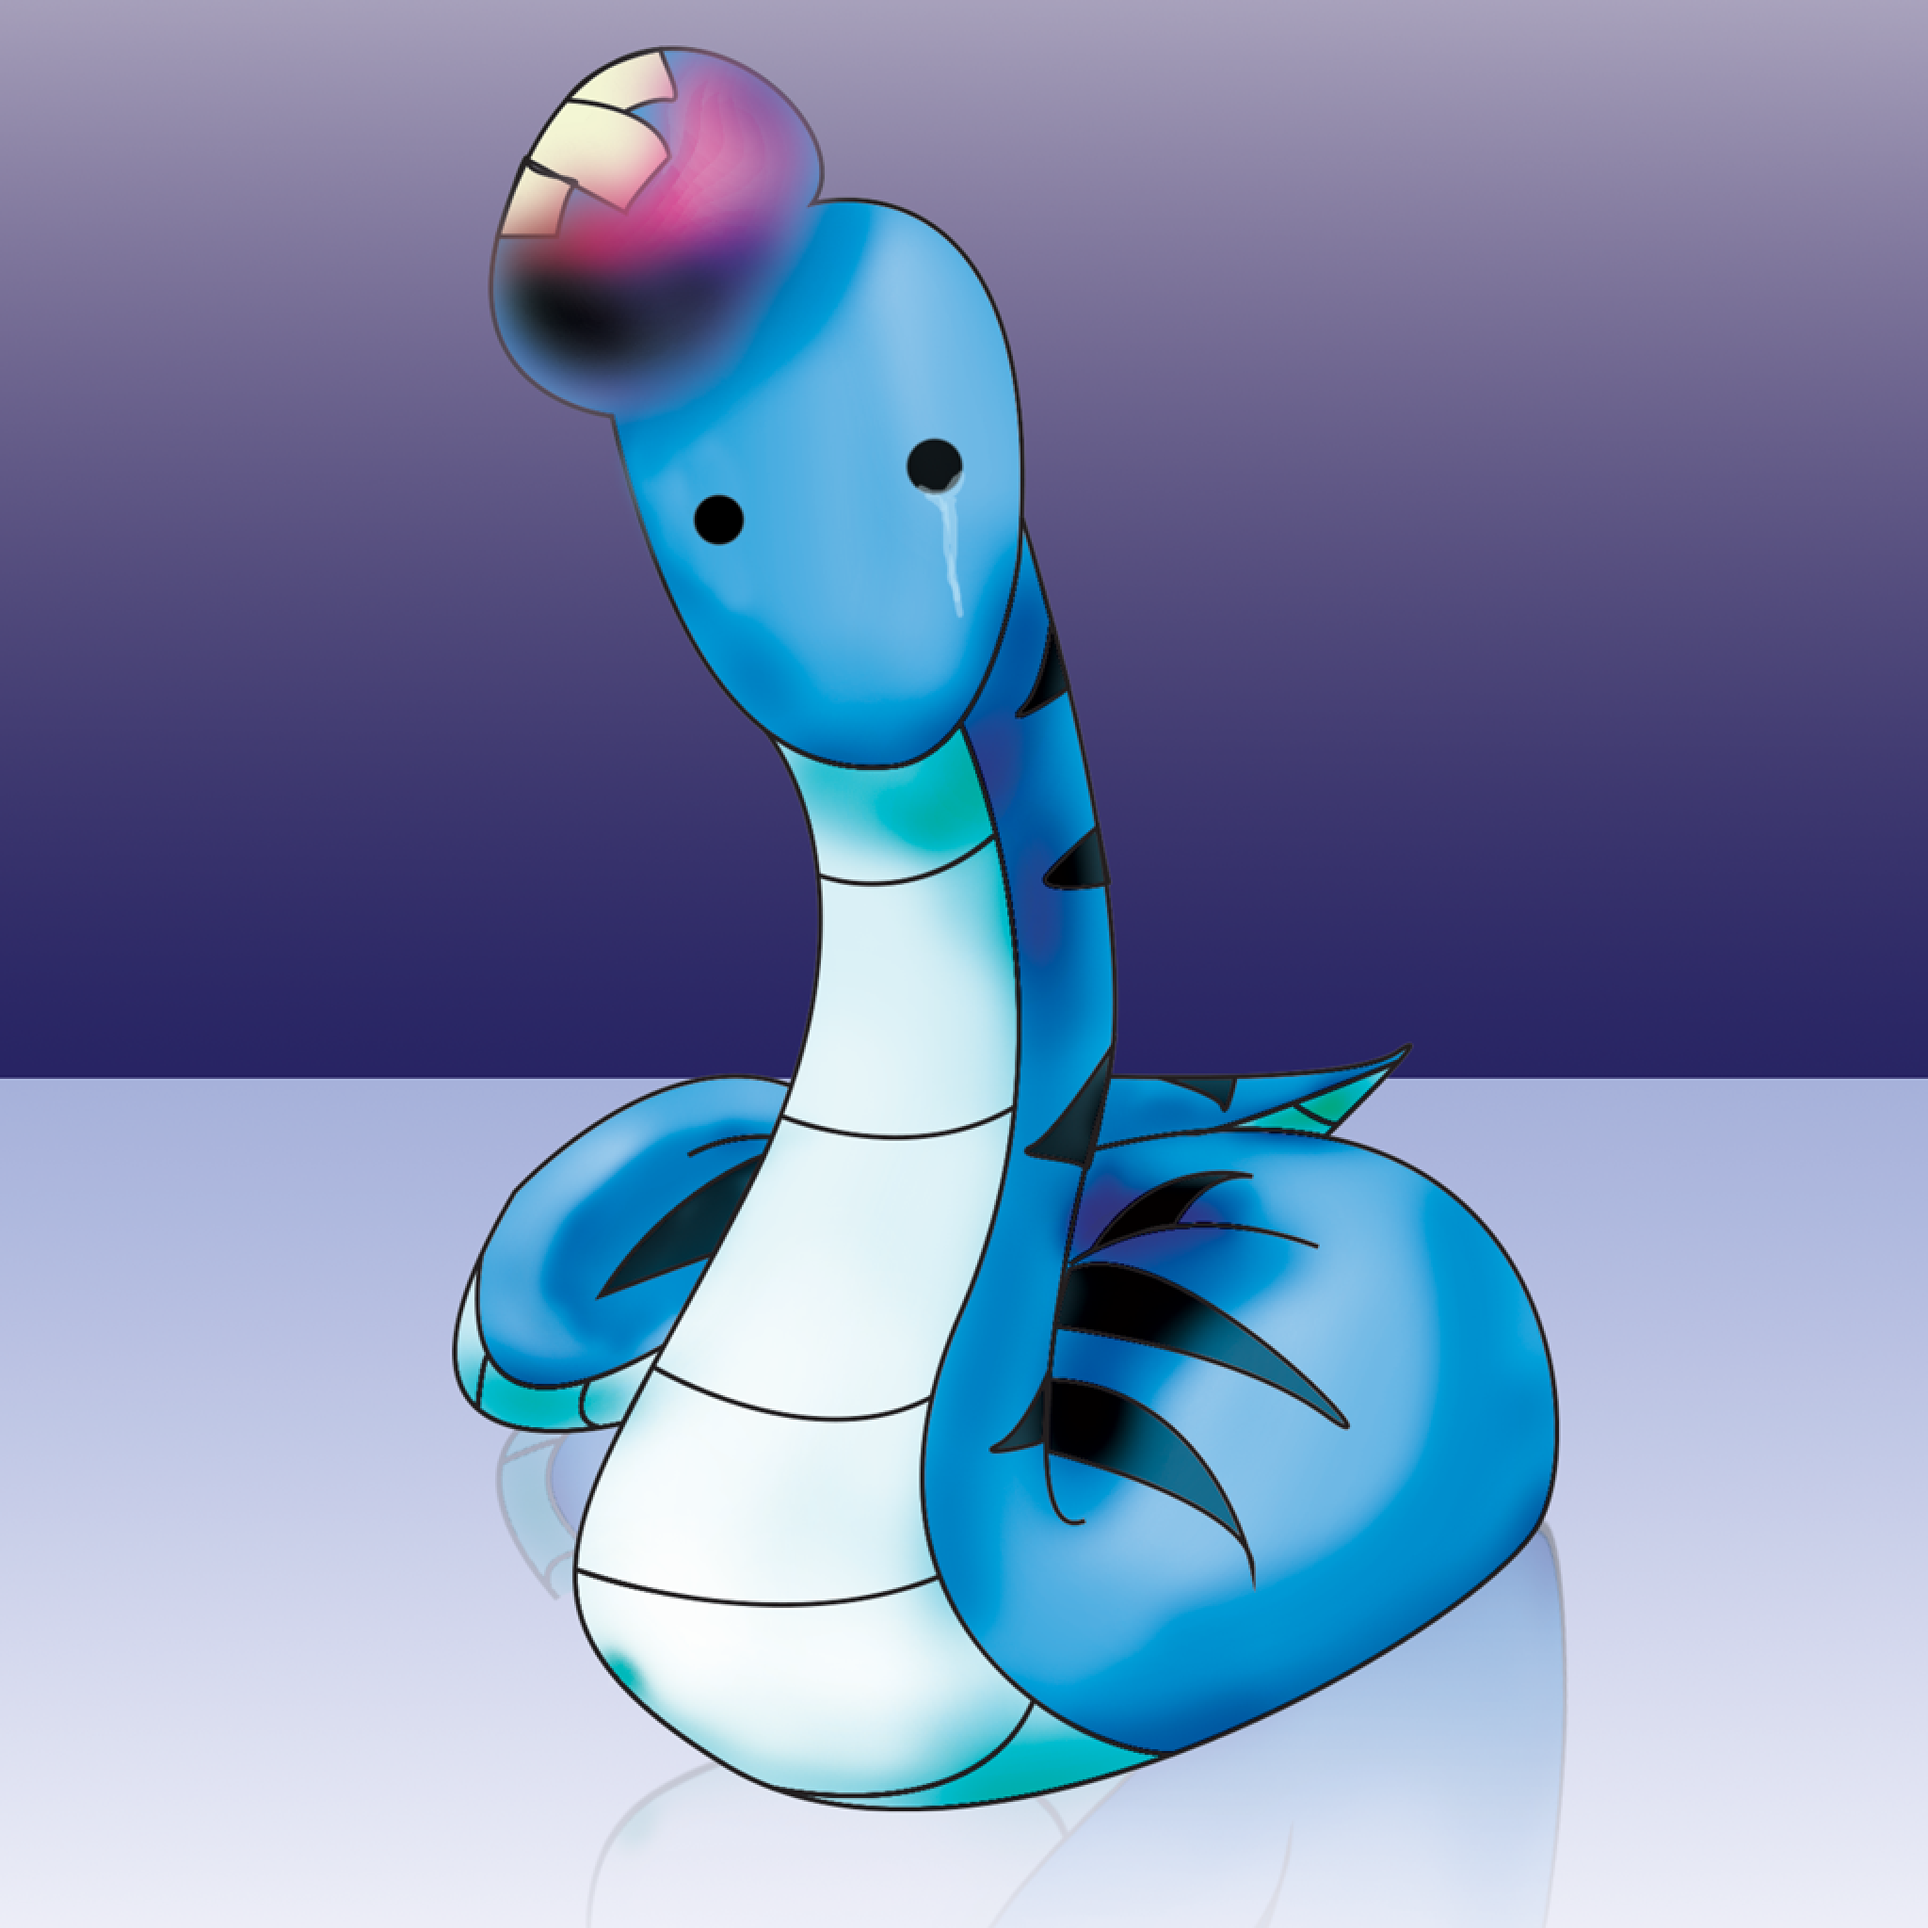
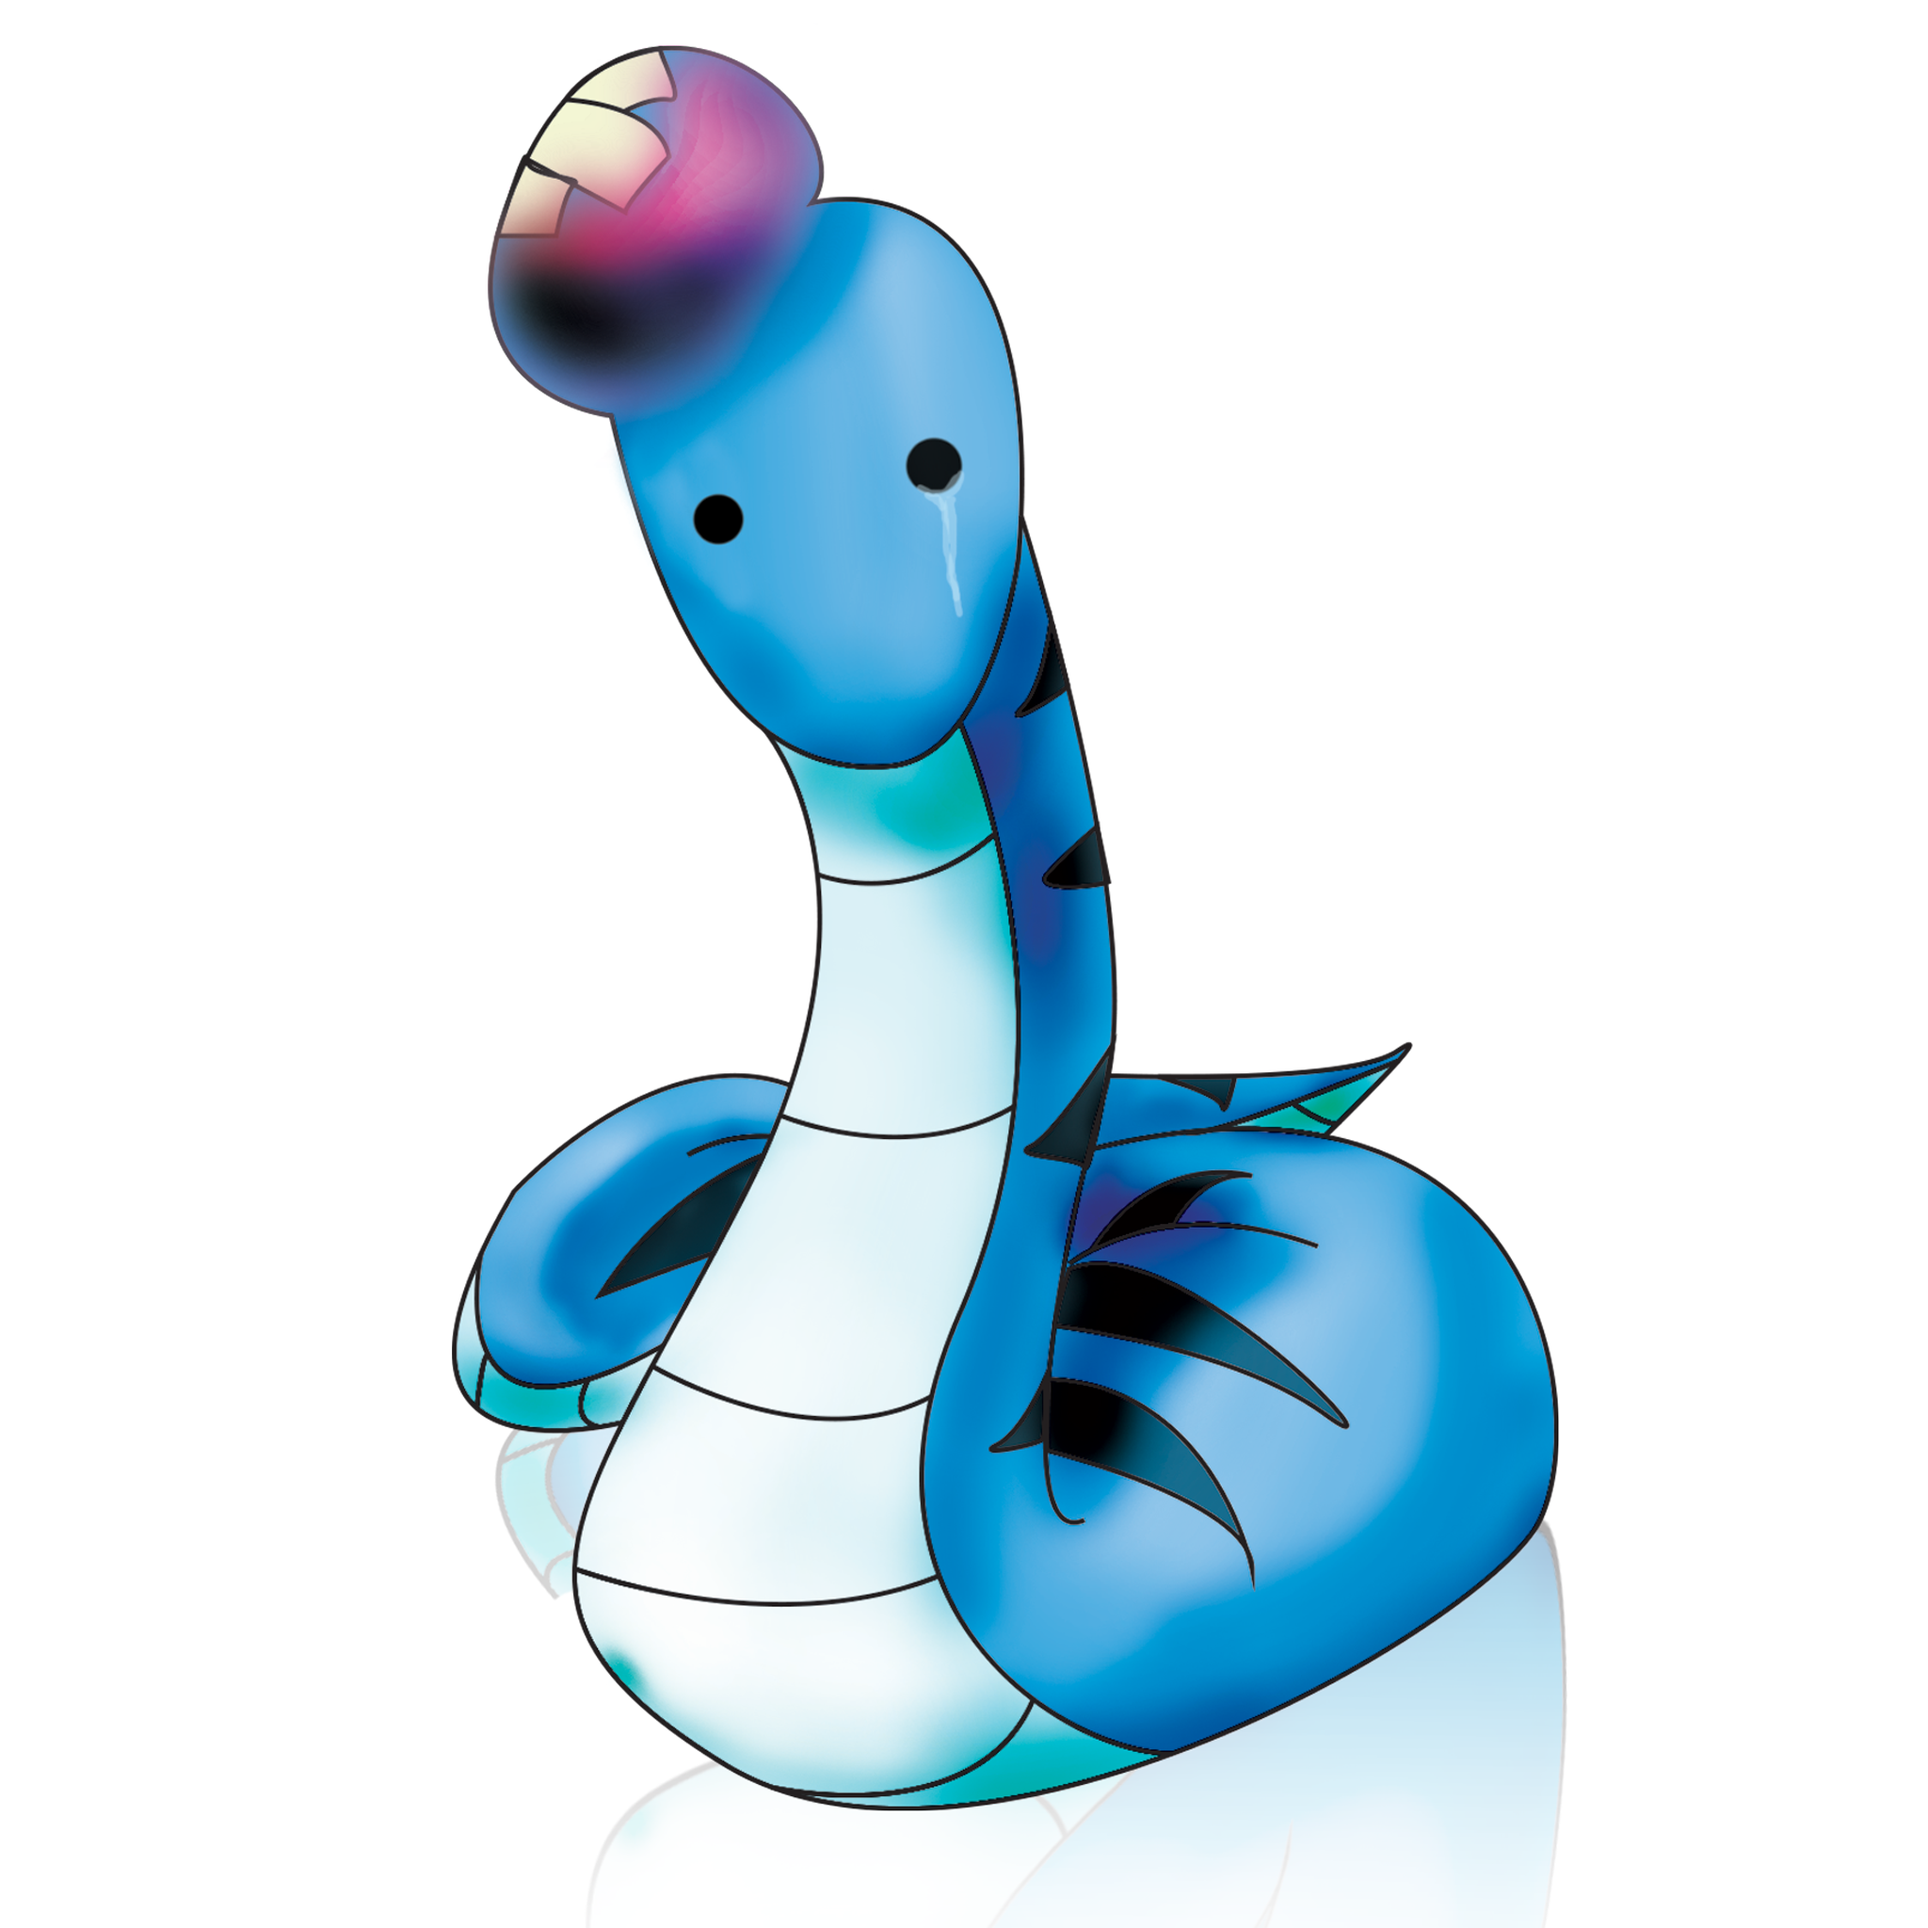
-Updated some death screens.
-Tweaked the text centered behavior.

diff --git a/Steve/src/com/steve/stages/Summary.java b/Steve/src/com/steve/stages/Summary.java
@@ -14,11 +14,13 @@ public class Summary {
 	Texture diedEnemy;
 	Texture diedStarvation;
 	Texture diedBlocker;
+	Texture diedSpace;
 	Texture background;
 	
 	Sprite diedEnemySprite;
 	Sprite diedStarvationSprite;
 	Sprite diedBlockerSprite;
+	Sprite diedSpaceSprite;
 	Sprite backgroundSprite;
 	
 	public float appleScore;
@@ -46,6 +48,7 @@ public class Summary {
 		diedEnemy = new Texture(Gdx.files.internal("data/diedEnemy.png"));
 		diedStarvation = new Texture(Gdx.files.internal("data/diedStarvation.png"));
 		diedBlocker = new Texture(Gdx.files.internal("data/diedBlocker.png"));
+		diedSpace = new Texture(Gdx.files.internal("data/diedSpace.png"));
 		background = new Texture(Gdx.files.internal("data/diedBackground.png"));
 		
 		diedEnemySprite = new Sprite(new TextureRegion(diedEnemy, 0f, 0f, 1f, 1f));
@@ -57,6 +60,9 @@ public class Summary {
 		diedBlockerSprite = new Sprite(new TextureRegion(diedBlocker, 0f, 0f, 1f, 1f));
 		diedBlockerSprite.scale(SteveDriver.guiCamera.viewportHeight / diedBlockerSprite.getHeight() - 1f);
 		diedBlockerSprite.setPosition(diedBlockerSprite.getWidth() / 2 * -1, diedBlockerSprite.getHeight() / 2 * -1);
+		diedSpaceSprite = new Sprite(new TextureRegion(diedSpace, 0f, 0f, 1f, 1f));
+		diedSpaceSprite.scale(SteveDriver.guiCamera.viewportWidth / diedSpaceSprite.getWidth() - 1f);
+		diedSpaceSprite.setPosition(diedSpaceSprite.getWidth() / 2 * -1, diedSpaceSprite.getHeight() / 2 * -1);
 		backgroundSprite = new Sprite(new TextureRegion(background, 0f, 0f, 1f, 1f));
 		backgroundSprite.scale(SteveDriver.guiCamera.viewportHeight / diedBlockerSprite.getHeight() - 1f);
 		
@@ -108,6 +114,7 @@ public class Summary {
 		case player:
 			break;
 		case space:
+			diedSpaceSprite.draw(SteveDriver.batch);
 			break;
 		case starvation:
 			diedStarvationSprite.draw(SteveDriver.batch);

diff --git a/Steve/src/com/steve/helpers/GUIHelper.java b/Steve/src/com/steve/helpers/GUIHelper.java
@@ -1,5 +1,7 @@
 package com.steve.helpers;
 
+import java.util.ArrayList;
+
 import com.badlogic.gdx.Gdx;
 import com.badlogic.gdx.graphics.Color;
 import com.badlogic.gdx.graphics.g2d.BitmapFont;
@@ -16,6 +18,8 @@ public class GUIHelper {
 	private BoxSet blackBox;
 	private BoxSet goldBox;
 	private BoxSet redBox;
+	
+	private ArrayList<String> tempLines;
 	
 	public enum BoxColors {
 		BLACK, GOLD, RED;
@@ -62,6 +66,8 @@ public class GUIHelper {
 		redBox = new BoxSet(18, 23);
 		
 		setActiveFont48();
+		
+		tempLines = new ArrayList<String>();
 	}
 	
 	private BoxSet getBox(BoxColors whichBox) {
@@ -100,16 +106,23 @@ public class GUIHelper {
 	
 	public void drawTextCentered(String message, float x, float y, Color c) {
 		activeFont.setColor(c);
-		int lineNumber = 0;
 		
 		for (int i = 0; i < message.length() - 1; ) {
 			int tempEndIndex = message.indexOf("\n", i);
 			tempEndIndex = (tempEndIndex < 0) ? message.length() : tempEndIndex;
-			activeFont.draw(SteveDriver.batch, message.substring(i, tempEndIndex), x - (activeFont.getBounds(message.substring(i, tempEndIndex)).width/2), y - lineNumber * activeFont.getLineHeight());
 			
+			tempLines.add(message.substring(i, tempEndIndex));
+
 			i = tempEndIndex + 1;
-			lineNumber++;
 		}
+		
+		for (int l = 0; l < tempLines.size(); l++) {
+			activeFont.draw(SteveDriver.batch, tempLines.get(l),
+					x - (activeFont.getBounds(tempLines.get(l)).width / 2f),
+					y - l * activeFont.getLineHeight() + tempLines.size() * (activeFont.getCapHeight() + activeFont.getLineHeight()) / 4f);
+		}
+		
+		tempLines.clear();
 	}
 	
 	public void drawBox(float x, float y, int width, int height, BoxColors whichBox) {

diff --git a/Steve/src/com/steve/TextButton.java b/Steve/src/com/steve/TextButton.java
@@ -14,7 +14,7 @@ public class TextButton extends Button {
 	@Override
 	public void render() {
 		super.render();
-		SteveDriver.guiHelper.drawTextCentered(text, positionX + width * SteveDriver.TEXTURE_SIZE / 2, positionY - height * SteveDriver.TEXTURE_SIZE / 2 + SteveDriver.guiHelper.activeFont.getCapHeight() / 2, Color.BLACK);
+		SteveDriver.guiHelper.drawTextCentered(text, positionX + width * SteveDriver.TEXTURE_SIZE / 2, positionY - height * SteveDriver.TEXTURE_SIZE / 2, Color.BLACK);
 	}
 	
 	public void setText(String t) {
